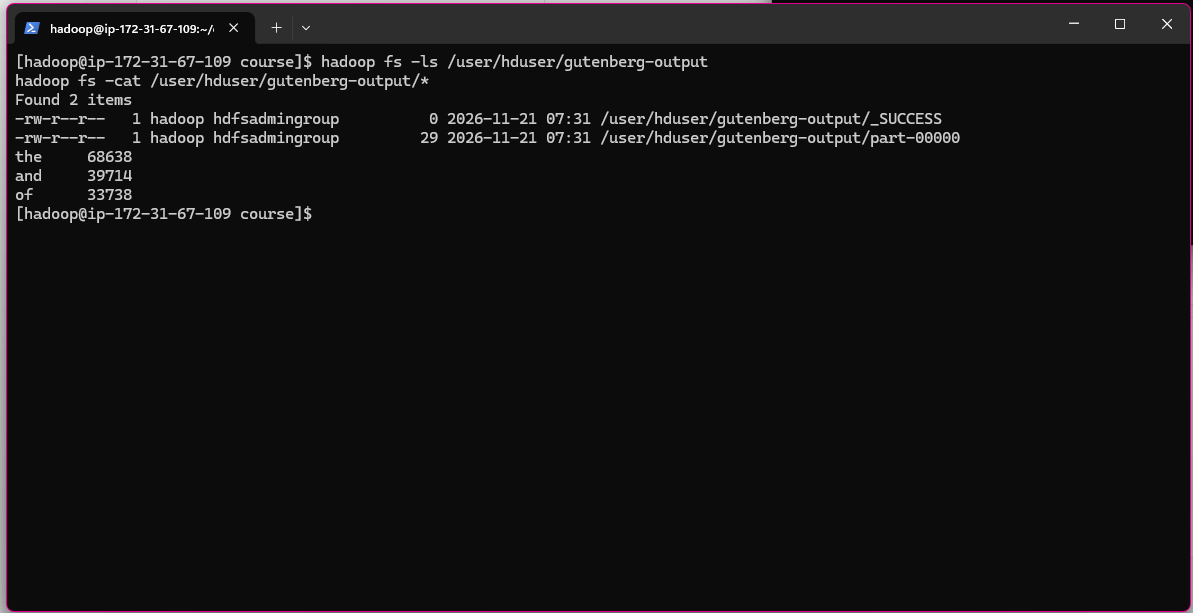
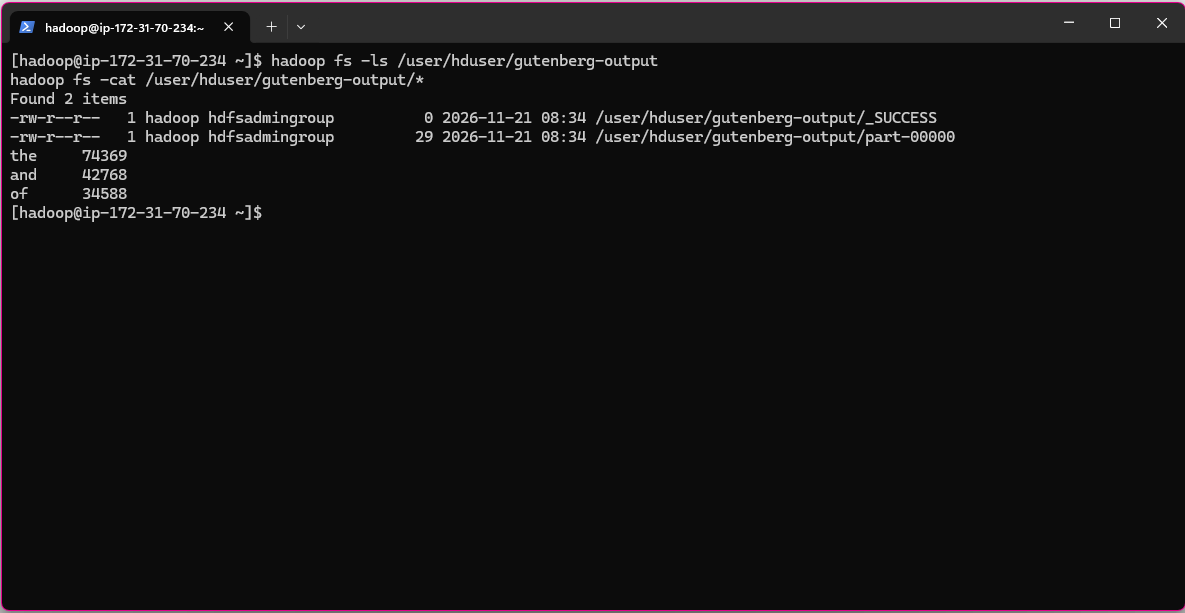
Add files via upload

Changed region(s): [[0.0, 0.0, 1.0, 1.0], [0.3435, 0.186, 0.8118, 0.248], [0.9992, 0.3719, 1.0, 0.9918]]

diff --git a/README.md b/README.md
@@ -57,15 +57,15 @@ the     74369
 **Q1. Is your change in the mapper or in the reducer?**
 In the reducer. Only the reducer knows the final total count of each word, so only it can pick the top 3. The reducer keeps a heap of the 3 largest counts and prints them at the end, sorted in descending order. All sorting and filtering is done inside the Python code, with no external pipes. We run with `-numReduceTasks 1` so that a single reducer sees all words. With several reducers, each one would output its own top 3.
 
-**Q2. Code:** [`reducer3.py`](reducer3.py) (used with the original [`mapper.py`](mapper.py))
+**Q2. Code:** [`reducer3.py`](reducer3.py) (used with the Exercise 2 mapper, [`mapper2.py`](mapper2.py))
 
 Run command:
 ```
-hadoop jar /usr/lib/hadoop/hadoop-streaming.jar -file ./mapper.py -mapper ./mapper.py -file ./reducer3.py -reducer ./reducer3.py -input /user/hadoop/gutenberg/* -output /user/hduser/gutenberg-output -numReduceTasks 1
+hadoop jar /usr/lib/hadoop/hadoop-streaming.jar -file ./mapper2.py -mapper ./mapper2.py -file ./reducer3.py -reducer ./reducer3.py -input /user/hadoop/gutenberg/* -output /user/hduser/gutenberg-output -numReduceTasks 1
 ```
 
 **Q3. Output:**
 
 ![Exercise 3 output](exercise3_output.png)
 
-Note: the run above uses the original `mapper.py`, so the only change is in the reducer. With the Exercise 2 mapper (`mapper2.py`), the top 3 would be `the 74369`, `and 42768`, `of 34588` (taken from the Exercise 2 output).
+The result matches the top 3 of the full Exercise 2 count (`the 74369`, `and 42768`, `of 34588`).
